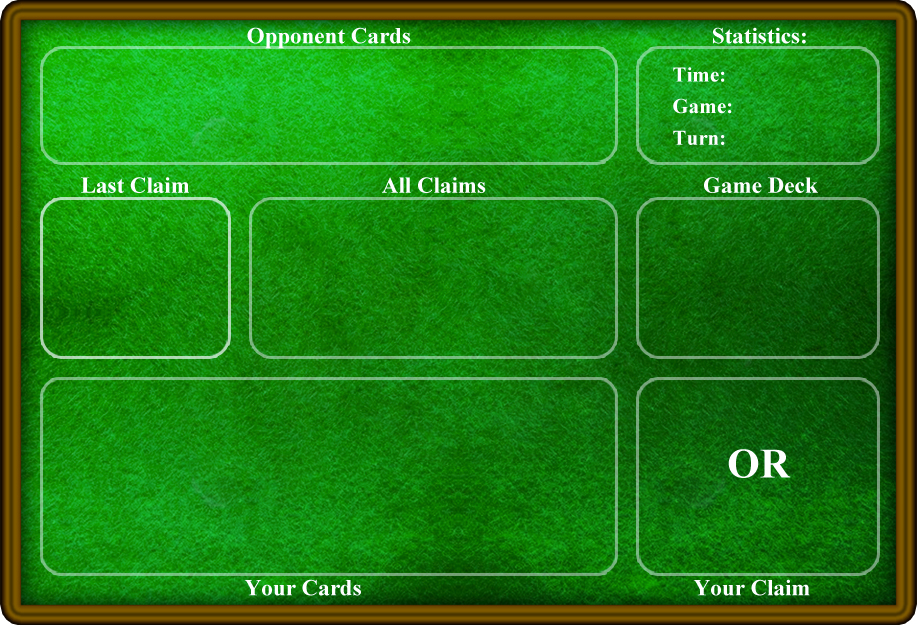
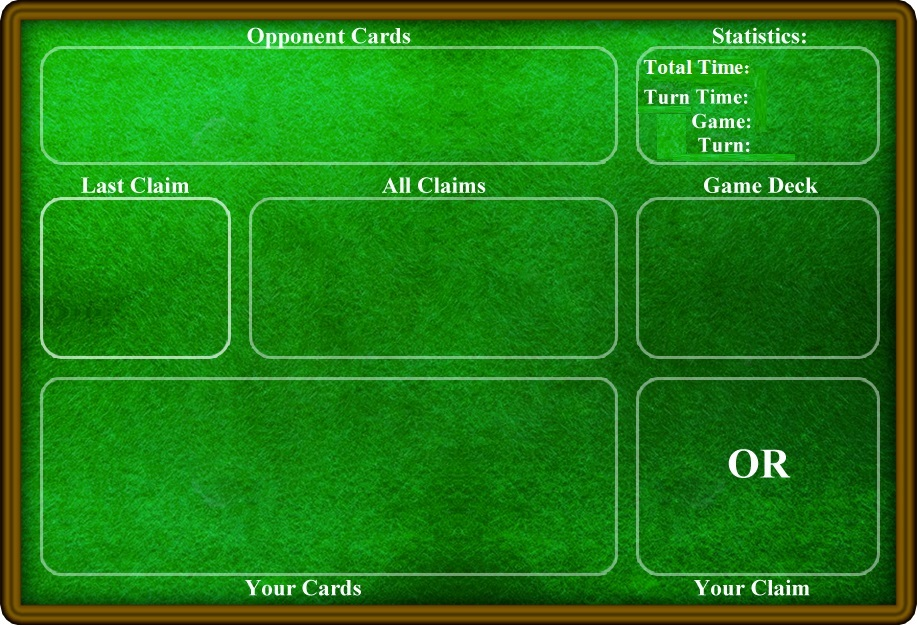
total game time count down added.

diff --git a/Form1.Designer.cs b/Form1.Designer.cs
@@ -57,6 +57,7 @@
       this.lowclaimhear = new CheatGameApp.DeckLabel();
       this.highclaimhear = new CheatGameApp.DeckLabel();
       this.hearednothing = new System.Windows.Forms.Button();
+      this.TotaleTimeLable = new System.Windows.Forms.Label();
       this.SuspendLayout();
       // 
       // StartGameButton
@@ -169,7 +170,7 @@
       this.timeLabel.BorderStyle = System.Windows.Forms.BorderStyle.Fixed3D;
       this.timeLabel.Font = new System.Drawing.Font("Microsoft Sans Serif", 12F, System.Drawing.FontStyle.Regular, System.Drawing.GraphicsUnit.Point, ((byte)(177)));
       this.timeLabel.ForeColor = System.Drawing.Color.White;
-      this.timeLabel.Location = new System.Drawing.Point(741, 66);
+      this.timeLabel.Location = new System.Drawing.Point(755, 87);
       this.timeLabel.Name = "timeLabel";
       this.timeLabel.Size = new System.Drawing.Size(100, 23);
       this.timeLabel.TabIndex = 13;
@@ -182,7 +183,7 @@
       this.gamesCountLabel.BorderStyle = System.Windows.Forms.BorderStyle.Fixed3D;
       this.gamesCountLabel.Font = new System.Drawing.Font("Microsoft Sans Serif", 12F, System.Drawing.FontStyle.Regular, System.Drawing.GraphicsUnit.Point, ((byte)(177)));
       this.gamesCountLabel.ForeColor = System.Drawing.Color.White;
-      this.gamesCountLabel.Location = new System.Drawing.Point(741, 97);
+      this.gamesCountLabel.Location = new System.Drawing.Point(755, 110);
       this.gamesCountLabel.Name = "gamesCountLabel";
       this.gamesCountLabel.Size = new System.Drawing.Size(100, 23);
       this.gamesCountLabel.TabIndex = 13;
@@ -195,7 +196,7 @@
       this.turnLabel.BorderStyle = System.Windows.Forms.BorderStyle.Fixed3D;
       this.turnLabel.Font = new System.Drawing.Font("Microsoft Sans Serif", 12F, ((System.Drawing.FontStyle)((System.Drawing.FontStyle.Bold | System.Drawing.FontStyle.Italic))), System.Drawing.GraphicsUnit.Point, ((byte)(177)));
       this.turnLabel.ForeColor = System.Drawing.Color.White;
-      this.turnLabel.Location = new System.Drawing.Point(741, 128);
+      this.turnLabel.Location = new System.Drawing.Point(755, 133);
       this.turnLabel.Name = "turnLabel";
       this.turnLabel.Size = new System.Drawing.Size(100, 23);
       this.turnLabel.TabIndex = 13;
@@ -392,6 +393,19 @@
       this.hearednothing.Visible = false;
       this.hearednothing.Click += new System.EventHandler(this.hearednothing_Click);
       // 
+      // TotaleTimeLable
+      // 
+      this.TotaleTimeLable.BackColor = System.Drawing.Color.Transparent;
+      this.TotaleTimeLable.BorderStyle = System.Windows.Forms.BorderStyle.Fixed3D;
+      this.TotaleTimeLable.Font = new System.Drawing.Font("Microsoft Sans Serif", 12F, System.Drawing.FontStyle.Regular, System.Drawing.GraphicsUnit.Point, ((byte)(177)));
+      this.TotaleTimeLable.ForeColor = System.Drawing.Color.White;
+      this.TotaleTimeLable.Location = new System.Drawing.Point(755, 64);
+      this.TotaleTimeLable.Name = "TotaleTimeLable";
+      this.TotaleTimeLable.Size = new System.Drawing.Size(100, 23);
+      this.TotaleTimeLable.TabIndex = 24;
+      this.TotaleTimeLable.Text = "00:00:00";
+      this.TotaleTimeLable.TextAlign = System.Drawing.ContentAlignment.MiddleCenter;
+      // 
       // Form1
       // 
       this.AutoScaleDimensions = new System.Drawing.SizeF(6F, 13F);
@@ -399,6 +413,7 @@
       this.BackgroundImage = global::CheatGameApp.Properties.Resources.cheatGameDesign;
       this.BackgroundImageLayout = System.Windows.Forms.ImageLayout.Stretch;
       this.ClientSize = new System.Drawing.Size(916, 625);
+      this.Controls.Add(this.TotaleTimeLable);
       this.Controls.Add(this.hearednothing);
       this.Controls.Add(this.highclaimhear);
       this.Controls.Add(this.lowclaimhear);
@@ -469,6 +484,7 @@
         private DeckLabel lowclaimhear;
         private DeckLabel highclaimhear;
         private System.Windows.Forms.Button hearednothing;
-    }
+    private System.Windows.Forms.Label TotaleTimeLable;
+  }
 }
 

diff --git a/Form1.cs b/Form1.cs
@@ -45,8 +45,10 @@ namespace CheatGameApp
 
         public const int NUM_PLAYERS = 2;
         public static int game_num = 1;
-        public static int TrunTime = 50;
+        public static int TrunTime = 50; //seconds  
+        public static int GameTime = 12; //minuts
         private TimeSpan m_gameTime;
+        private TimeSpan total_game_time;
         private int num_of_unresponsive_turnes = 0;
         public static int connIndex;
         private static bool _needToClose = false;
@@ -143,10 +145,10 @@ namespace CheatGameApp
                 //string CLIENT_ENDPOINT = doc.GetParamString("CLIENT_ENDPOINT");
                 //string SERVER_ENDPOINT = "18.224.93.57";
                 //string CLIENT_ENDPOINT = "18.224.93.57";
-                //string SERVER_ENDPOINT = "18.221.184.12";
-                //string CLIENT_ENDPOINT = "18.221.184.12";
-                string SERVER_ENDPOINT = "127.0.0.1";
-                string CLIENT_ENDPOINT = "127.0.0.1";
+                string SERVER_ENDPOINT = "18.221.184.12";
+                string CLIENT_ENDPOINT = "18.221.184.12";
+                //string SERVER_ENDPOINT = "127.0.0.1";
+                //string CLIENT_ENDPOINT = "127.0.0.1";
                 for (var i = 0; i < NUM_PLAYERS; i++)
                 {
                     _tcpConnection[i] = new Client();
@@ -214,7 +216,7 @@ namespace CheatGameApp
             waveOut.Play();
             while (waveOut.PlaybackState == PlaybackState.Playing)
             {
-              System.Threading.Thread.Sleep(100);
+              Application.DoEvents();
             }
           }
         }
@@ -649,6 +651,7 @@ namespace CheatGameApp
                 StatusLabel.Visible = false;
 
                 m_gameTime = TimeSpan.FromSeconds(TrunTime);
+                total_game_time = TimeSpan.FromMinutes(GameTime);
                 gameTimer.Start();
 
                 // show board
@@ -672,6 +675,7 @@ namespace CheatGameApp
                 StartGameButton.Visible = false;
                 ControlOfNormalGameState(isMyTurn);
                 timeLabel.Visible = true;
+                TotaleTimeLable.Visible = true;
                 turnLabel.Visible = true;
                 gamesCountLabel.Visible = true;
                 recordingLable.Visible = false;
@@ -711,6 +715,7 @@ namespace CheatGameApp
                 gamesCountLabel.Text = game_num.ToString() + " of 3";
 
                 timeLabel.Visible = false;
+                TotaleTimeLable.Visible = false;
                 turnLabel.Visible = false;
                 gamesCountLabel.Visible = false;
                 replay.Visible = false;
@@ -1012,9 +1017,27 @@ namespace CheatGameApp
         private void gameTimer_Tick(object sender, EventArgs e)
         {
             m_gameTime -= TimeSpan.FromMilliseconds(gameTimer.Interval);
+            total_game_time -= TimeSpan.FromMilliseconds(gameTimer.Interval);
             timeLabel.Text = string.Format("{0:00}:{1:00}:{2:00}", m_gameTime.Hours, m_gameTime.Minutes, m_gameTime.Seconds);
+            TotaleTimeLable.Text = string.Format("{0:00}:{1:00}:{2:00}", total_game_time.Hours, total_game_time.Minutes, total_game_time.Seconds);
             if (m_gameTime <= TimeSpan.Zero && ! Board.IsServerTurn ) time_up();
             if (m_gameTime <= TimeSpan.Zero) m_gameTime = TimeSpan.Zero;
+            if (total_game_time <= TimeSpan.Zero) EndGameDueToTimeOut();
+        }
+
+        private void EndGameDueToTimeOut()
+        {
+          if((oppDeckLabel.Deck.Count < myDeck.Deck.Count) ||
+             (oppDeckLabel.Deck.Count == myDeck.Deck.Count && Board.IsServerTurn))
+          {
+            forfeitGame();
+            MessageBox.Show("Time for a single game has ended. You have lost because your opponent has less cards. ");
+          }
+          else
+          {
+            MessageBox.Show("Time for a single game has ended. You have won because you have less cards. ");
+
+          }
         }
 
         private void time_up()
